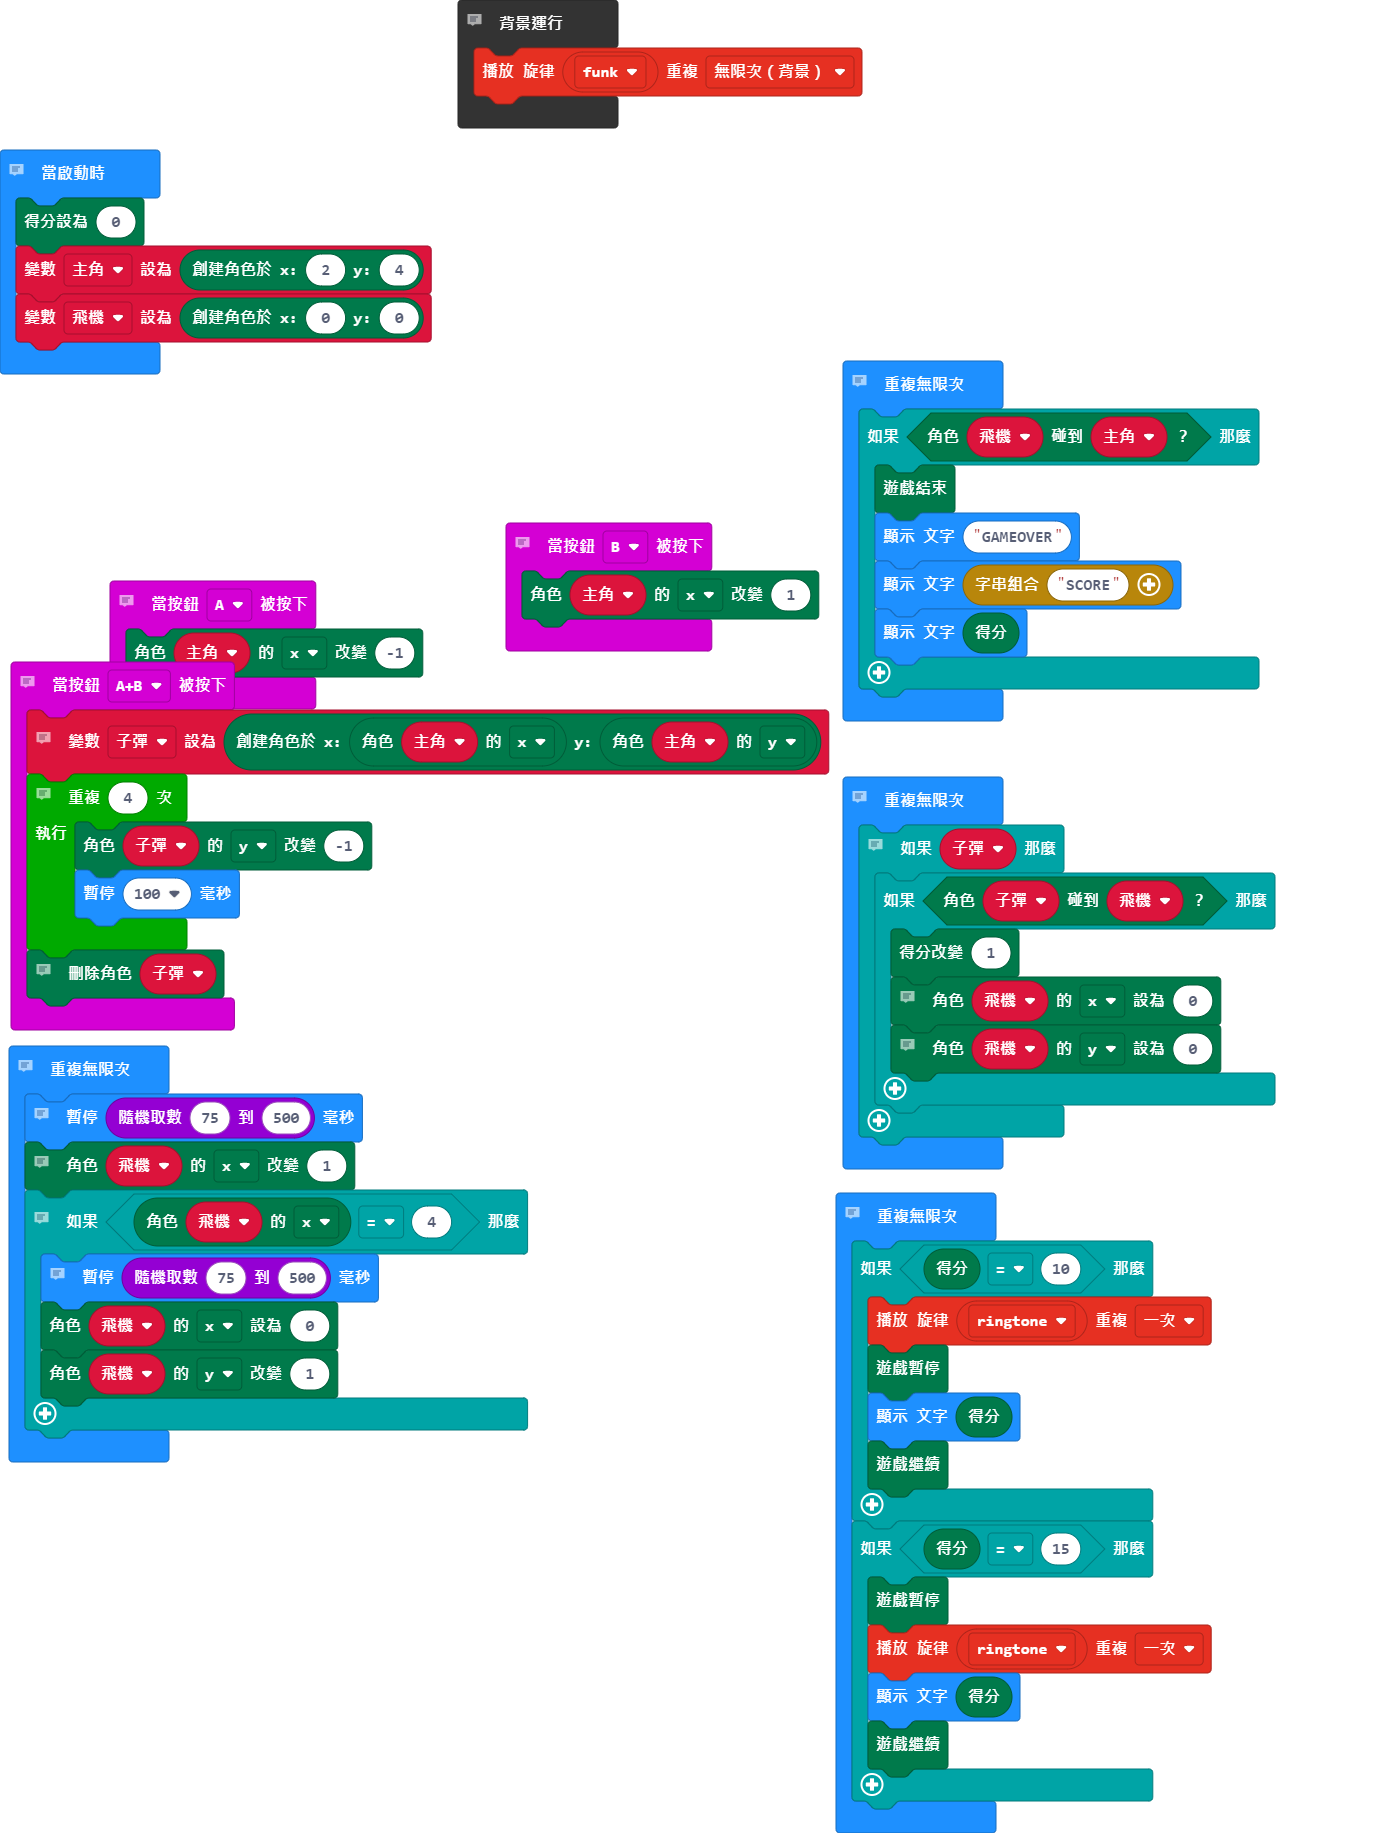
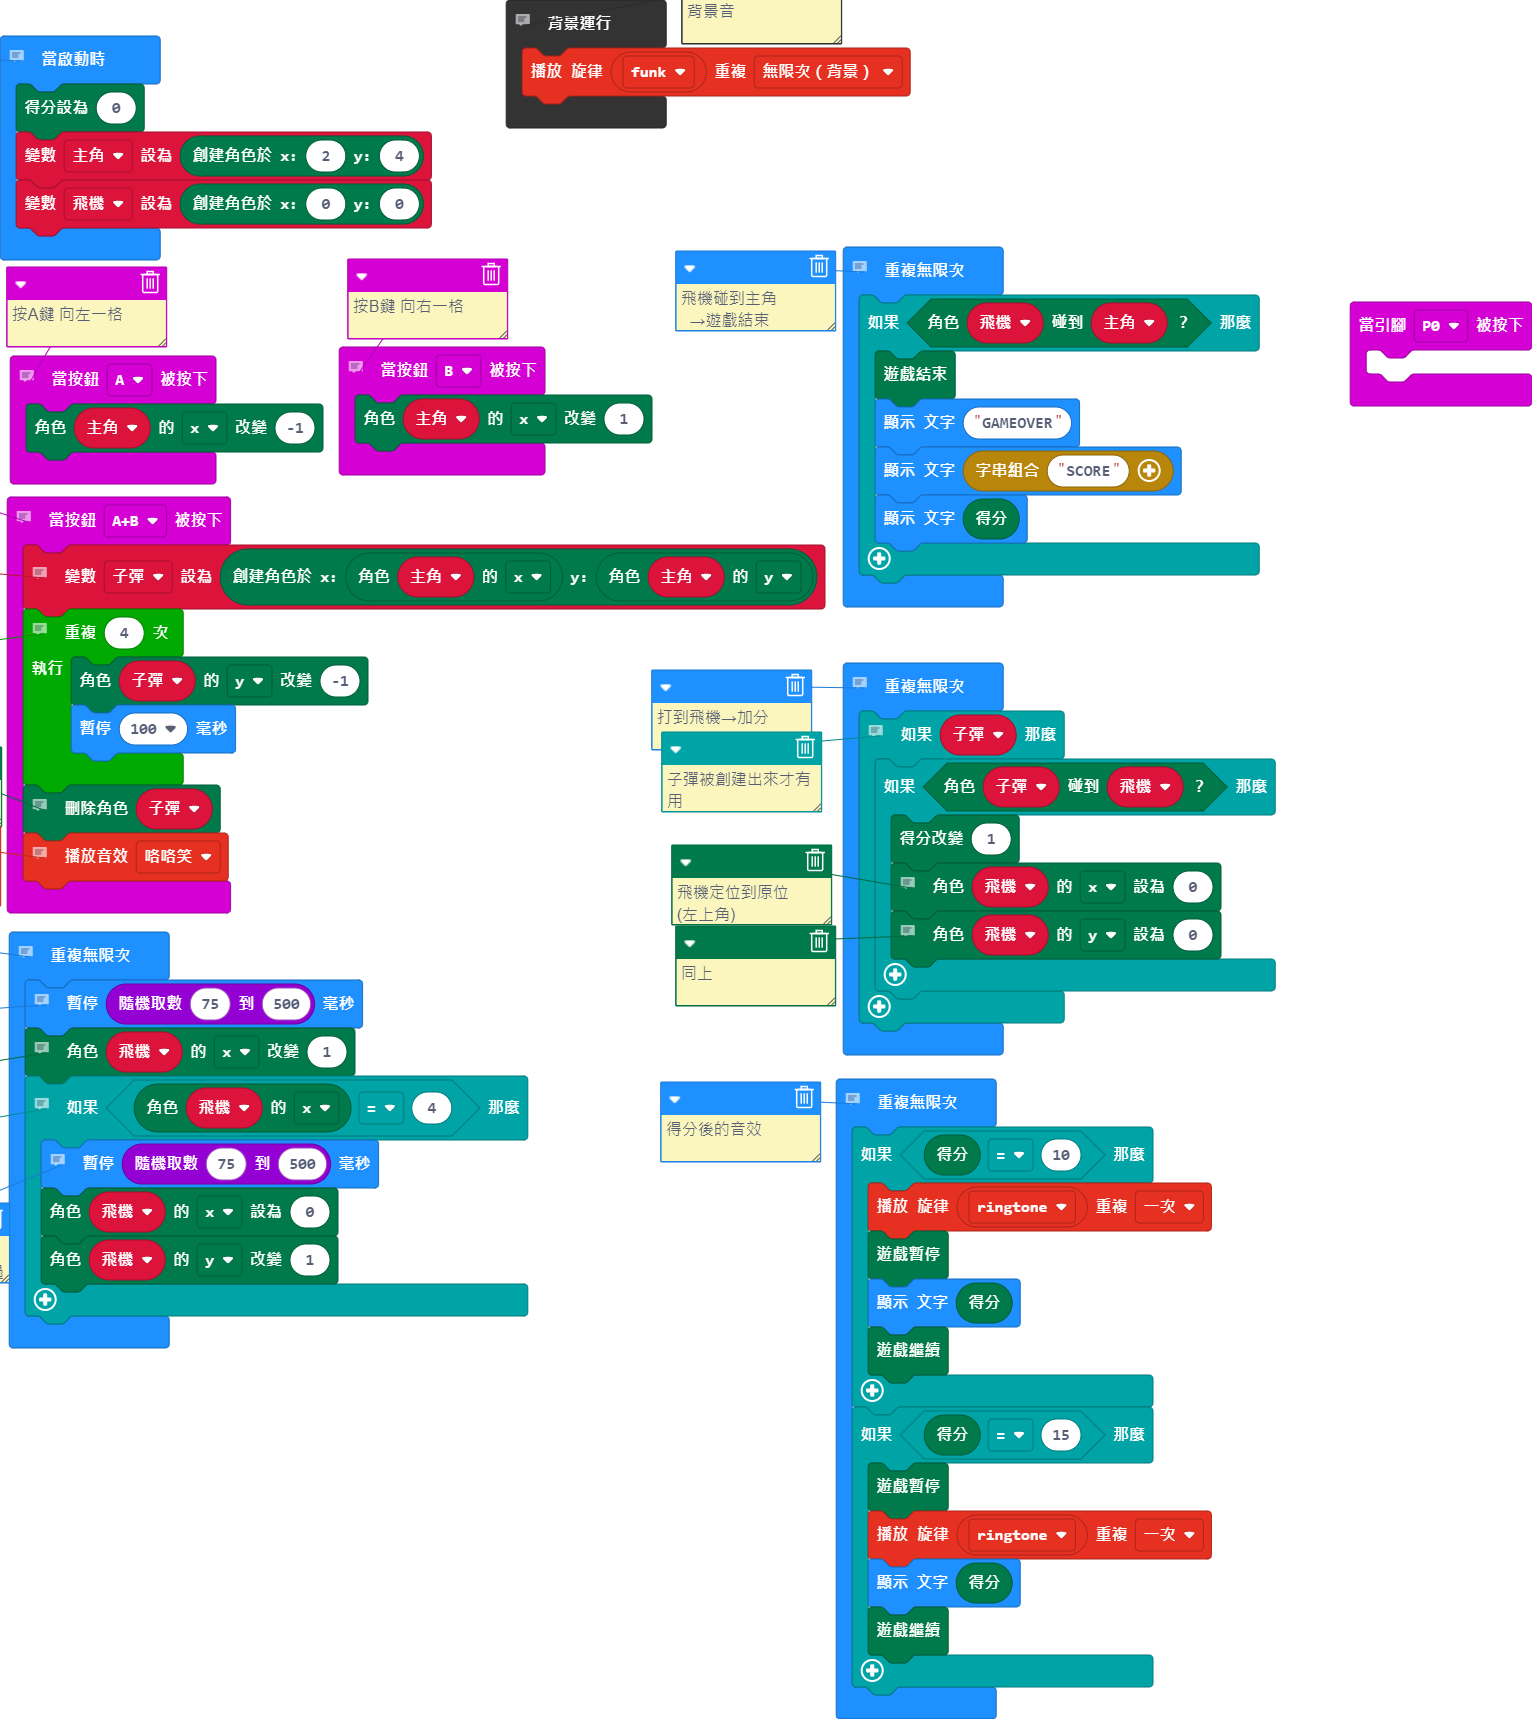
更新 main.blocks, main.ts

diff --git a/main.ts b/main.ts
@@ -1,3 +1,6 @@
+input.onPinPressed(TouchPin.P0, function () {
+	
+})
 // 按A鍵 向左一格
 input.onButtonPressed(Button.A, function () {
     主角.change(LedSpriteProperty.X, -1)
@@ -13,6 +16,8 @@ input.onButtonPressed(Button.AB, function () {
     }
     // 跑到最上面後消失
     子彈.delete()
+    // 子彈飛出去發出來的聲音
+    soundExpression.giggle.play()
 })
 // 按B鍵 向右一格
 input.onButtonPressed(Button.B, function () {
